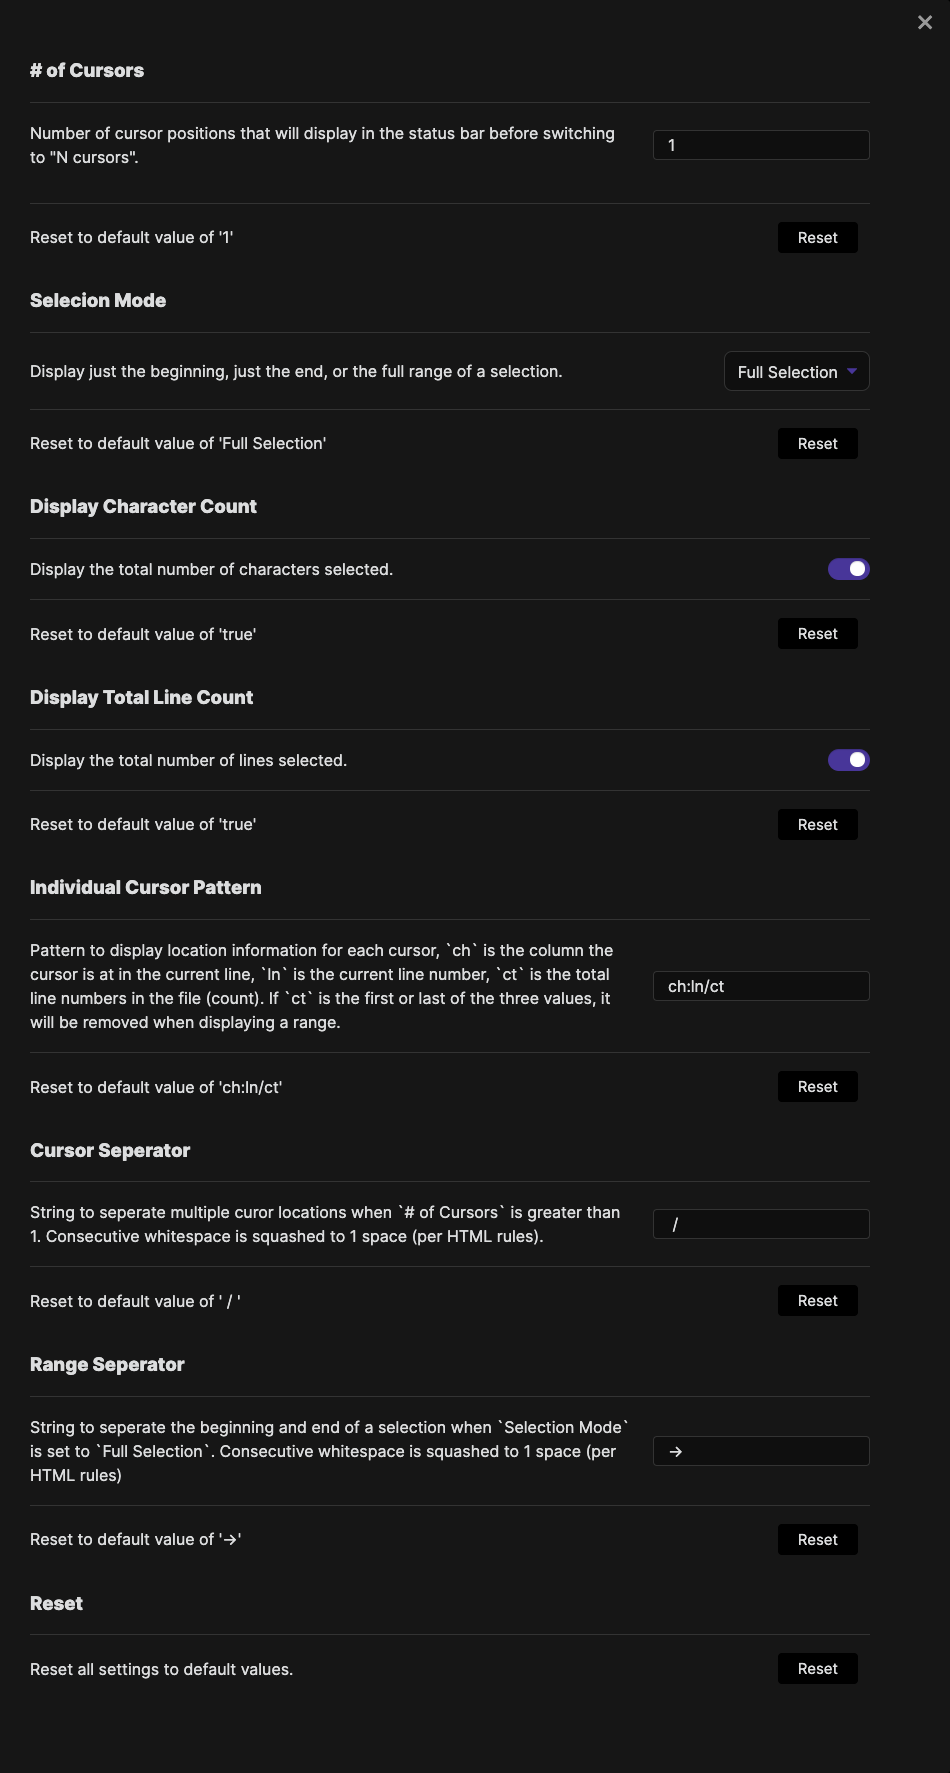
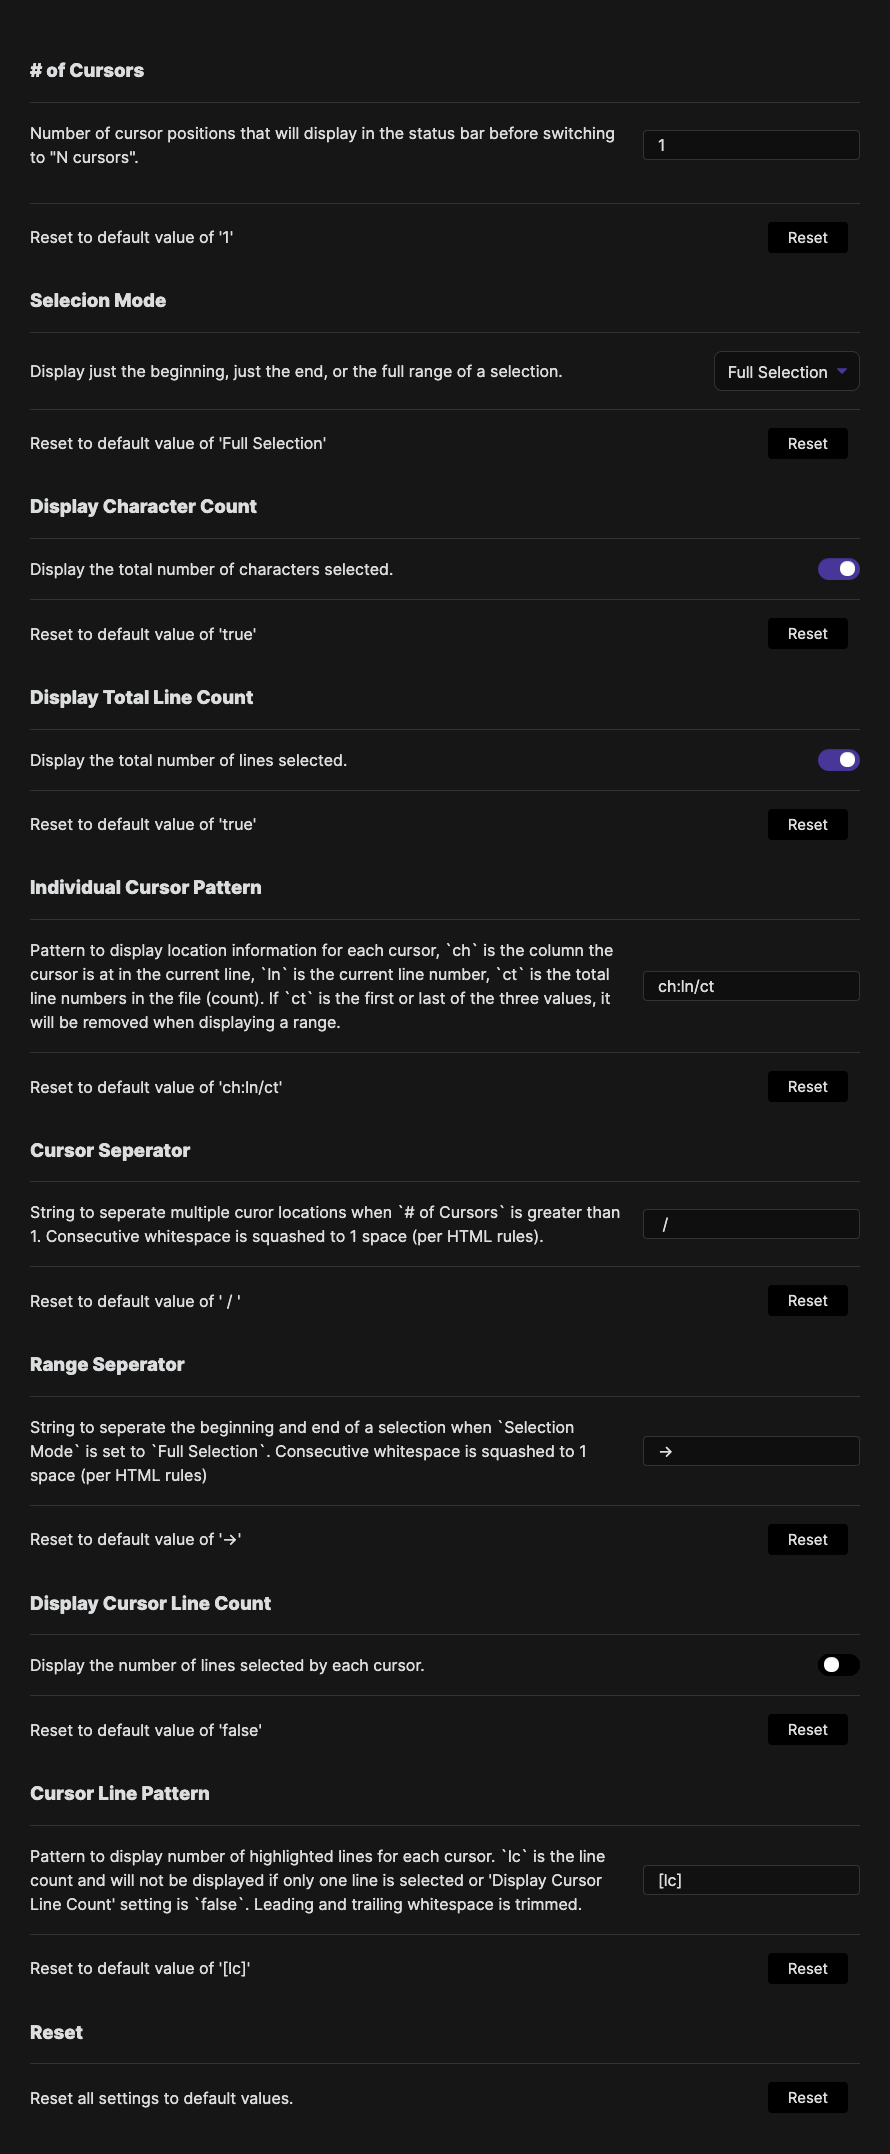
Add Cursor Line Count
Line counts can now be enabled for individual cursors.

diff --git a/main.ts b/main.ts
@@ -19,6 +19,8 @@ interface CursorLocationSettings {
   rangeSeperator: string;
   cursorSeperator: string;
   displayTotalLines: boolean;
+  displayCursorLines: boolean;
+  cursorLinePattern: string;
 }
 
 const DEFAULT_SETTINGS: CursorLocationSettings = {
@@ -29,6 +31,8 @@ const DEFAULT_SETTINGS: CursorLocationSettings = {
   cursorSeperator: " / ",
   rangeSeperator: "->",
   displayTotalLines: true,
+  displayCursorLines: false,
+  cursorLinePattern: "[lc]",
 };
 
 export default class CursorLocation extends Plugin {
@@ -95,6 +99,7 @@ export default class CursorLocation extends Plugin {
   private cursorDisplay(
     selection: EditorSelection,
     totalCount: number,
+    displayLines: boolean = false,
     skipTotal: boolean = false
   ): string {
     let value: string;
@@ -112,6 +117,11 @@ export default class CursorLocation extends Plugin {
         this.cursorString(selection.anchor, totalCount, true) +
         this.settings.rangeSeperator +
         this.cursorString(selection.head, totalCount, skipTotal);
+    }
+    if (displayLines && this.settings.displayCursorLines) {
+      let numberLines = Math.abs(selection.anchor.line - selection.head.line) + 1;
+      let cursorLinePattern = this.settings.cursorLinePattern;
+      value += ` ${cursorLinePattern.replace("lc", numberLines.toString())}`;
     }
     return value;
   }
@@ -161,7 +171,7 @@ export default class CursorLocation extends Plugin {
         } else if (selections.length <= this.settings.numberCursors) {
           let cursorStrings: string[] = [];
           selections.forEach((value) => {
-            cursorStrings.push(this.cursorDisplay(value, lineCount, true));
+            cursorStrings.push(this.cursorDisplay(value, lineCount, true, true));
           });
           display = cursorStrings.join(this.settings.cursorSeperator);
           if (/ct/.test(this.settings.displayPattern)) {
@@ -340,7 +350,7 @@ class CursorLocationSettingTab extends PluginSettingTab {
       .addText((text) => {
         text.setValue(this.plugin.settings.displayPattern).onChange(async (value) => {
           console.log(`Changing display pattern to ${value}`);
-          this.plugin.settings.displayPattern = value;
+          this.plugin.settings.displayPattern = value.trim();
           await this.plugin.saveSettings();
         });
       });
@@ -404,6 +414,64 @@ class CursorLocationSettingTab extends PluginSettingTab {
         })
       );
 
+    let displayCursorLineCountEl = containerEl.createDiv();
+    displayCursorLineCountEl.createEl("h3", { text: "Display Cursor Line Count" });
+    let displayCursorLineCount = new Setting(displayCursorLineCountEl)
+      .setName("Display the number of lines selected by each cursor.")
+      .addToggle((cb) =>
+        cb
+          .setValue(
+            this.plugin.settings.displayCursorLines != null
+              ? this.plugin.settings.displayCursorLines
+              : DEFAULT_SETTINGS.displayCursorLines
+          )
+          .onChange(async (value) => {
+            if (this.plugin.settings.displayCursorLines != value) {
+              console.log(`Changing display cursor count visiblity to ${value}`);
+            }
+            this.plugin.settings.displayCursorLines = value;
+            await this.plugin.saveSettings();
+          })
+      );
+    new Setting(displayCursorLineCountEl)
+      .setName(`Reset to default value of '${DEFAULT_SETTINGS.displayCursorLines}'`)
+      .addButton((cb) =>
+        cb.setButtonText("Reset").onClick(async () => {
+          this.resetComponent(
+            displayCursorLineCount,
+            DEFAULT_SETTINGS.displayCursorLines
+          );
+          this.plugin.settings.displayCursorLines = DEFAULT_SETTINGS.displayCursorLines;
+          await this.plugin.saveSettings();
+        })
+      );
+
+    let cursorLinePatternEl = containerEl.createDiv();
+    cursorLinePatternEl.createEl("h3", { text: "Cursor Line Pattern" });
+    let cursorLinePattern = new Setting(cursorLinePatternEl)
+      .setName(
+        "Pattern to display number of highlighted lines for each cursor. \
+          `lc` is the line count and will not be displayed if only one line \
+          is selected or 'Display Cursor Line Count' setting is `false`. \
+          Leading and trailing whitespace is trimmed."
+      )
+      .addText((text) => {
+        text.setValue(this.plugin.settings.cursorLinePattern).onChange(async (value) => {
+          console.log(`Changing cursor line pattern to ${value}`);
+          this.plugin.settings.cursorLinePattern = value.trim();
+          await this.plugin.saveSettings();
+        });
+      });
+    new Setting(cursorLinePatternEl)
+      .setName(`Reset to default value of '${DEFAULT_SETTINGS.cursorLinePattern}'`)
+      .addButton((cb) =>
+        cb.setButtonText("Reset").onClick(async () => {
+          this.resetComponent(cursorLinePattern, DEFAULT_SETTINGS.cursorLinePattern);
+          this.plugin.settings.cursorLinePattern = DEFAULT_SETTINGS.cursorLinePattern;
+          await this.plugin.saveSettings();
+        })
+      );
+
     let resetEl = containerEl.createDiv();
     resetEl.createEl("h3", { text: "Reset" });
     new Setting(resetEl)
@@ -418,6 +486,11 @@ class CursorLocationSettingTab extends PluginSettingTab {
           this.resetComponent(displayPattern, DEFAULT_SETTINGS.displayPattern);
           this.resetComponent(cursorSeperator, DEFAULT_SETTINGS.cursorSeperator);
           this.resetComponent(rangeSeperator, DEFAULT_SETTINGS.rangeSeperator);
+          this.resetComponent(
+            displayCursorLineCount,
+            DEFAULT_SETTINGS.displayCursorLines
+          );
+          this.resetComponent(cursorLinePattern, DEFAULT_SETTINGS.cursorLinePattern);
           warningSection.setText("");
           this.plugin.settings = DEFAULT_SETTINGS;
           await this.plugin.saveSettings();

diff --git a/README.md b/README.md
@@ -1,8 +1,10 @@
 # Cursor Location
 This plugin for [Obsidian](https://obsidian.md/) displays the location of the cursor (character and line number).
 
-![](demo.gif)
+## Demo
+![Demo Gif](demo.gif)
 
+## Settings
 You can change the behavior via the Settings Tab.
 - `# of Cursors`: Number of cursor positions that will display before switching to "N cursors"
 - `Selection Mode`: How to display cursor position when a selection is made
@@ -19,9 +21,12 @@ You can change the behavior via the Settings Tab.
   - If `ct` is the first or last of the three values, it will be removed when displaying a range.
 - `Cursor Seperator`: String to seperate multiple curor locations when `# of Cursors` is greater than 1. Consecutive whitespace is squashed to 1 space (per HTML rules).
 - `Range Seperator`: String to seperate the beginning and end of a selection when `Selection Mode` is set to `Full Selection`. Consecutive whitespace is squashed to 1 space (per HTML rules).
+- `Display Cursor Lines`: Display the number of lines selected by each cursor or not
+- `Cursor Line Pattern`: How to display the number of lines selected by a cursor, `lc` is the value that will be replaced with the number of lines
 - `Reset`: Reset all values to the default settings
 
-![](settings.png)
+### Default Settings
+![Default Setttings](settings.png)
 
 ## Installation
 You can install the plugin via the Community Plugins tab within Obsidian. Just search for "Cursor Location"
